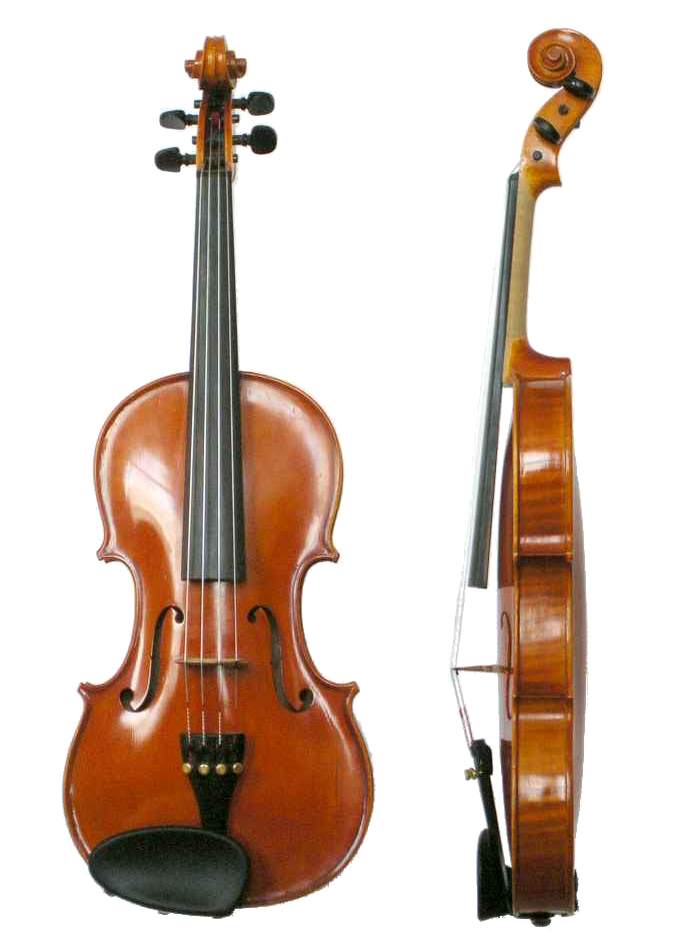
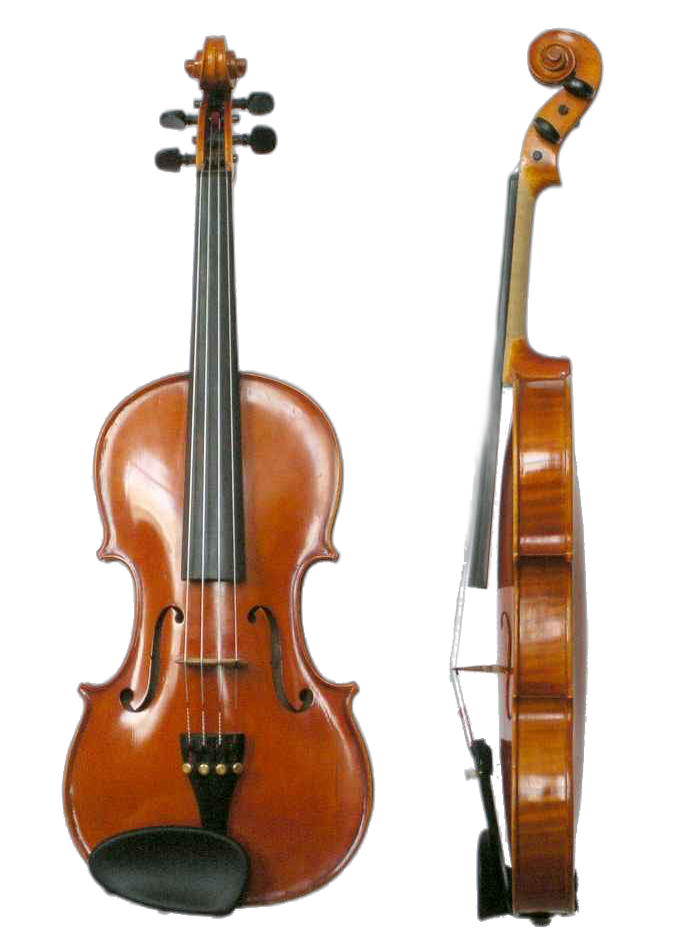
Détourage des photos de fond + WYSIWYG pour la description
Photos
- Backgrounds détourés par rembg (U2-Net) : on garde uniquement
  l'animal/instrument sur fond transparent. Les 4 photos passent
  donc en PNG (chamois/lynx/vautour) et le violon reste en PNG
  détouré aussi
- CSS allégé : plus besoin du grayscale fort, juste un léger
  sepia+saturate pour homogénéiser, opacité montée à 18%
  (sujets bien isolés, ne gênent plus la lecture)

WYSIWYG
- Quill 2.0 chargé conditionnellement via $include_editor
- Markup : <textarea data-wysiwyg> + <div .wysiwyg-editor>, init JS
  partagé dans public/editor.js (init multi-instance, smart load
  HTML/plain-text, sync au submit)
- Sanitization HTML côté serveur (lib/html_sanitize.php,
  DOMDocument + whitelist tags+attrs, force rel/target sur <a>)
- render_description() rétrocompatible : applique nl2br+escape
  si la description est en plain text (anciennes descriptions
  seed avant cette mise à jour)
- Toolbar Quill : headers H2/H3, gras/ital/souligné/barré, listes,
  blockquote, lien, clean
- seed.php : description ré-écrite en HTML (paragraphes + emphases)

diff --git a/public/style.css b/public/style.css
@@ -46,34 +46,34 @@ body::before {
   inset: 0;
   background-color: transparent;
   background-image:
-    url('/public/bg/lynx.jpg'),
-    url('/public/bg/vautour.jpg'),
+    url('/public/bg/lynx.png'),
+    url('/public/bg/vautour.png'),
     url('/public/bg/violon.png'),
-    url('/public/bg/chamois.jpg');
+    url('/public/bg/chamois.png');
   background-position:
-    left   2vh,
-    right  2vh,
-    1vw   bottom,
+    left 3vh,
+    right 4vh,
+    2vw bottom,
     right bottom;
   background-repeat: no-repeat;
   background-size:
+    32vw auto,
     36vw auto,
-    42vw auto,
-    18vw auto,
-    38vw auto;
-  filter: grayscale(0.85) contrast(0.9) sepia(0.05);
-  opacity: 0.12;
+    16vw auto,
+    32vw auto;
+  filter: sepia(0.1) saturate(0.85);
+  opacity: 0.18;
   pointer-events: none;
   z-index: 0;
 }
 @media (max-width: 700px) {
   body::before {
     background-image:
-      url('/public/bg/lynx.jpg'),
+      url('/public/bg/lynx.png'),
       url('/public/bg/violon.png');
     background-position: left top, right bottom;
-    background-size: 70vw auto, 40vw auto;
-    opacity: 0.10;
+    background-size: 60vw auto, 35vw auto;
+    opacity: 0.15;
   }
 }
 body > * { position: relative; z-index: 1; }
@@ -198,7 +198,32 @@ details.card > summary::before {
 }
 details.card[open] > summary::before { transform: rotate(90deg); }
 details.card[open] > summary { margin-bottom: 0.85rem; }
-.card.description { white-space: pre-wrap; color: var(--fg-soft); }
+.card.description { color: var(--fg-soft); }
+.card.description p:first-child { margin-top: 0; }
+.card.description p:last-child  { margin-bottom: 0; }
+.card.description h2, .card.description h3, .card.description h4 { margin: 1rem 0 0.5rem; border: none; }
+.card.description ul, .card.description ol { padding-left: 1.5rem; }
+.card.description blockquote { margin: 0.5rem 0; padding-left: 0.85rem; border-left: 3px solid var(--border-strong); color: var(--muted); }
+
+/* Quill WYSIWYG */
+.wysiwyg-editor {
+  background: #fff;
+  border: 1px solid var(--border-strong);
+  border-top: none;
+  border-radius: 0 0 var(--radius-sm) var(--radius-sm);
+  min-height: 160px;
+  font: inherit;
+  margin-top: 0;
+}
+.ql-toolbar.ql-snow {
+  border: 1px solid var(--border-strong);
+  border-bottom: none;
+  border-radius: var(--radius-sm) var(--radius-sm) 0 0;
+  background: #f8fafc;
+}
+.ql-container.ql-snow { border: none; font: inherit; font-size: 15px; }
+.ql-editor { min-height: 130px; }
+.ql-editor.ql-blank::before { color: var(--muted); font-style: normal; }
 
 .flash {
   padding: 0.65rem 0.9rem;

diff --git a/public/editor.js b/public/editor.js
@@ -1,0 +1,47 @@
+// Active Quill sur chaque .wysiwyg trouvé dans la page.
+// Le markup attendu :
+//   <textarea name="description" data-wysiwyg style="display:none">…HTML initial…</textarea>
+//   <div class="wysiwyg-editor"></div>
+// Le textarea reçoit le HTML du Quill au submit du formulaire parent.
+
+document.addEventListener('DOMContentLoaded', () => {
+  if (typeof Quill === 'undefined') return;
+
+  document.querySelectorAll('textarea[data-wysiwyg]').forEach((textarea) => {
+    const editor = textarea.nextElementSibling;
+    if (!editor || !editor.classList.contains('wysiwyg-editor')) return;
+
+    const quill = new Quill(editor, {
+      theme: 'snow',
+      placeholder: textarea.getAttribute('data-placeholder') || '',
+      modules: {
+        toolbar: [
+          [{ header: [2, 3, false] }],
+          ['bold', 'italic', 'underline', 'strike'],
+          [{ list: 'ordered' }, { list: 'bullet' }],
+          ['blockquote', 'link'],
+          ['clean'],
+        ],
+      },
+    });
+
+    const initial = textarea.value;
+    if (initial.trim() !== '') {
+      // Si le contenu existant est du HTML (Quill ou autre) on l'injecte tel quel ;
+      // sinon on traite comme du texte brut (préserve les retours à la ligne).
+      if (/<(p|br|h[1-6]|strong|em|ul|ol|li|a|blockquote|pre|code|span|hr)\b/i.test(initial)) {
+        quill.clipboard.dangerouslyPasteHTML(initial);
+      } else {
+        quill.setText(initial);
+      }
+    }
+
+    const form = textarea.closest('form');
+    if (form) {
+      form.addEventListener('submit', () => {
+        const text = quill.getText().trim();
+        textarea.value = text === '' ? '' : quill.root.innerHTML;
+      });
+    }
+  });
+});

diff --git a/lib/html_sanitize.php b/lib/html_sanitize.php
@@ -1,0 +1,92 @@
+<?php
+// Sanitization HTML pour le contenu du WYSIWYG.
+// Whitelist stricte de balises/attributs ; nettoyage via DOMDocument.
+
+function sanitize_html(string $html): string {
+    $html = trim($html);
+    if ($html === '') return '';
+
+    $allowed_tags = [
+        'p','br','strong','em','u','s','span',
+        'ul','ol','li',
+        'a',
+        'h1','h2','h3','h4','h5','h6',
+        'blockquote','pre','code',
+        'hr',
+    ];
+    $allowed_attrs = [
+        'a' => ['href', 'title'],
+    ];
+
+    libxml_use_internal_errors(true);
+    $doc = new DOMDocument('1.0', 'UTF-8');
+    $wrapper = '<?xml encoding="UTF-8"?><div id="__sanitize_root__">' . $html . '</div>';
+    $doc->loadHTML($wrapper, LIBXML_HTML_NOIMPLIED | LIBXML_HTML_NODEFDTD);
+    libxml_clear_errors();
+
+    $xpath = new DOMXPath($doc);
+    $roots = $xpath->query('//div[@id="__sanitize_root__"]');
+    if ($roots->length === 0) return '';
+    $root = $roots->item(0);
+
+    walk_sanitize($root, $allowed_tags, $allowed_attrs, true);
+
+    $out = '';
+    foreach ($root->childNodes as $child) {
+        $out .= $doc->saveHTML($child);
+    }
+    return trim($out);
+}
+
+function walk_sanitize(DOMNode $node, array $allowed_tags, array $allowed_attrs, bool $is_root = false): void {
+    // Traiter d'abord les enfants (copie pour iterer en supprimant)
+    if ($node->hasChildNodes()) {
+        foreach (iterator_to_array($node->childNodes) as $child) {
+            walk_sanitize($child, $allowed_tags, $allowed_attrs, false);
+        }
+    }
+
+    if ($is_root) return;
+    if (!($node instanceof DOMElement)) return;
+
+    $tag = strtolower($node->tagName);
+    if (!in_array($tag, $allowed_tags, true)) {
+        // Unwrap : on remonte les enfants au parent puis on supprime le nœud.
+        while ($node->firstChild) {
+            $node->parentNode->insertBefore($node->firstChild, $node);
+        }
+        $node->parentNode->removeChild($node);
+        return;
+    }
+
+    $allowed = $allowed_attrs[$tag] ?? [];
+    foreach (iterator_to_array($node->attributes) as $attr) {
+        $name = strtolower($attr->name);
+        if (!in_array($name, $allowed, true)) {
+            $node->removeAttribute($attr->name);
+        }
+    }
+
+    if ($tag === 'a' && $node->hasAttribute('href')) {
+        $href = trim($node->getAttribute('href'));
+        if (!preg_match('#^(https?://|mailto:|/|\#)#i', $href)) {
+            $node->removeAttribute('href');
+        } else {
+            $node->setAttribute('href', $href);
+            $node->setAttribute('rel', 'noopener noreferrer');
+            $node->setAttribute('target', '_blank');
+        }
+    }
+}
+
+// Pour l'affichage : détecte si la description contient déjà du HTML
+// (sinon on applique nl2br + escape pour rester compatible avec les
+// anciennes descriptions saisies en plain text).
+function render_description(?string $desc): string {
+    $desc = (string)$desc;
+    if ($desc === '') return '';
+    if (preg_match('/<(p|br|h[1-6]|strong|em|ul|ol|li|a|blockquote|pre|code|hr|span)\b/i', $desc)) {
+        return $desc;
+    }
+    return nl2br(htmlspecialchars($desc, ENT_QUOTES | ENT_SUBSTITUTE, 'UTF-8'));
+}

diff --git a/seed.php b/seed.php
@@ -17,19 +17,14 @@ $pdo = db();
 $uuid = 'b8e3a7f1-2d94-4c6a-9e5b-3f1a2c8d7e60';
 
 $title = "SOS aide Anna & Mathou pour accouchement";
-$description = <<<TXT
-On a besoin de faire une liste d'amis proches qui seraient OK pour nous emmener à la maternité de Romans au moment de l'accouchement.
-
-Si personne de nos proches n'est dispo, on peut appeler le 15, mais on est pas sûr et certain qu'ils seront dispo vite et qu'ils voudront bien nous emmener à Romans (selon la situation ils pourraient nous emmener à Valence, et j'ai vraiment envie d'accoucher à Romans pour plusieurs raisons, c'est important pour moi...). Donc l'idéal serait de se faire emmener par qqun de proche.
-
-Pour rappel le terme est prévu au 21 juin, mais je peux accoucher entre 1 mois avant et 1 semaine après, donc entre le 21 mai et le 26 juin, c'est bébé qui décidera !
-
-L'idée c'est de noter ici TOUTES VOS DISPOS.
-
-Puis, pour éviter que tout le monde se rendre dispo souvent, on essayera de choisir 2 PERSONNES "D'ASTREINTE" PAR CRENEAU, ou sur des petites périodes. Idéalement 1 personne principale qu'on appellera en 1er, et 1 personne suppléante qu'on appellera en 2ème. On vous enverra cette info quand tout le monde aura remplit ce frama.
-
-Un très GRAND MERCI de votre soutien les copains :)
-TXT;
+$description = <<<HTML
+<p>On a besoin de faire une liste d'amis proches qui seraient OK pour nous emmener à la maternité de Romans au moment de l'accouchement.</p>
+<p>Si personne de nos proches n'est dispo, on peut appeler le 15, mais on est pas sûr et certain qu'ils seront dispo vite et qu'ils voudront bien nous emmener à Romans (selon la situation ils pourraient nous emmener à Valence, et j'ai vraiment envie d'accoucher à Romans pour plusieurs raisons, c'est important pour moi...). Donc l'idéal serait de se faire emmener par qqun de proche.</p>
+<p>Pour rappel le terme est prévu au 21 juin, mais je peux accoucher entre 1 mois avant et 1 semaine après, donc entre le 21 mai et le 26 juin, c'est bébé qui décidera !</p>
+<p>L'idée c'est de noter ici <strong>TOUTES VOS DISPOS</strong>.</p>
+<p>Puis, pour éviter que tout le monde se rendre dispo souvent, on essayera de choisir <strong>2 PERSONNES "D'ASTREINTE" PAR CRENEAU</strong>, ou sur des petites périodes. Idéalement 1 personne principale qu'on appellera en 1er, et 1 personne suppléante qu'on appellera en 2ème. On vous enverra cette info quand tout le monde aura remplit ce frama.</p>
+<p>Un très <strong>GRAND MERCI</strong> de votre soutien les copains :)</p>
+HTML;
 
 $existing = $pdo->prepare("SELECT uuid FROM polls WHERE uuid = ?");
 $existing->execute([$uuid]);

diff --git a/index.php b/index.php
@@ -20,6 +20,7 @@ require __DIR__ . '/lib/db.php';
 require __DIR__ . '/lib/helpers.php';
 require __DIR__ . '/lib/auth.php';
 require __DIR__ . '/lib/mailer.php';
+require __DIR__ . '/lib/html_sanitize.php';
 
 session_name('mmidate');
 session_set_cookie_params(['httponly' => true, 'samesite' => 'Lax', 'secure' => !empty($_SERVER['HTTPS'])]);
@@ -156,13 +157,13 @@ function route_admin_logout(): void {
 function route_admin_list(): void {
     require_admin();
     $polls = db()->query("SELECT * FROM polls ORDER BY created_at DESC")->fetchAll();
-    render('admin/list', ['page_title' => 'Sondages', 'polls' => $polls]);
+    render('admin/list', ['page_title' => 'Sondages', 'polls' => $polls, 'include_editor' => true]);
 }
 
 function route_admin_create_poll(): void {
     require_admin();
     $title = trim((string)($_POST['title'] ?? ''));
-    $desc  = trim((string)($_POST['description'] ?? ''));
+    $desc  = sanitize_html((string)($_POST['description'] ?? ''));
     if ($title === '') {
         flash_set('err', 'Titre obligatoire.');
         redirect('/admin');
@@ -185,6 +186,7 @@ function route_admin_poll(string $uuid): void {
         'dates' => $dates,
         'participants' => $participants,
         'votes' => $votes,
+        'include_editor' => true,
     ]);
 }
 
@@ -192,7 +194,7 @@ function route_admin_update_poll(string $uuid): void {
     require_admin();
     $poll = find_poll($uuid);
     $title = trim((string)($_POST['title'] ?? ''));
-    $desc  = trim((string)($_POST['description'] ?? ''));
+    $desc  = sanitize_html((string)($_POST['description'] ?? ''));
     if ($title === '') {
         flash_set('err', 'Titre obligatoire.');
         redirect('/admin/polls/' . $uuid);

diff --git a/templates/admin/poll.php b/templates/admin/poll.php
@@ -15,7 +15,10 @@ $public_url = rtrim($GLOBALS['CONFIG']['app_url'], '/') . '/p/' . $poll['uuid'];
   <form method="post" action="/admin/polls/<?= e($poll['uuid']) ?>">
     <?= csrf_field() ?>
     <label>Titre <input type="text" name="title" value="<?= e($poll['title']) ?>" required></label>
-    <label>Description <textarea name="description" rows="4"><?= e($poll['description']) ?></textarea></label>
+    <label>Description
+      <textarea name="description" data-wysiwyg style="display:none"><?= e($poll['description']) ?></textarea>
+      <div class="wysiwyg-editor"></div>
+    </label>
     <button type="submit">Enregistrer</button>
   </form>
 </details>

diff --git a/templates/layout.php b/templates/layout.php
@@ -9,6 +9,11 @@
 <link rel="preconnect" href="https://fonts.gstatic.com" crossorigin>
 <link rel="stylesheet" href="https://fonts.googleapis.com/css2?family=Fraunces:opsz,wght@9..144,600;9..144,700&family=Inter:wght@400;500;600;700&family=Space+Grotesk:wght@500;700&display=swap">
 <link rel="stylesheet" href="/public/style.css">
+<?php if (!empty($include_editor)): ?>
+  <link rel="stylesheet" href="https://cdn.jsdelivr.net/npm/quill@2.0.3/dist/quill.snow.css">
+  <script src="https://cdn.jsdelivr.net/npm/quill@2.0.3/dist/quill.js" defer></script>
+  <script src="/public/editor.js" defer></script>
+<?php endif; ?>
 </head>
 <body>
 <header class="topbar">

diff --git a/templates/admin/list.php b/templates/admin/list.php
@@ -7,7 +7,8 @@
     <input type="text" name="title" required>
   </label>
   <label>Description
-    <textarea name="description" rows="3"></textarea>
+    <textarea name="description" data-wysiwyg style="display:none"></textarea>
+    <div class="wysiwyg-editor"></div>
   </label>
   <button type="submit">Créer</button>
 </form>

diff --git a/templates/poll/show.php b/templates/poll/show.php
@@ -1,7 +1,7 @@
 <h1><?= e($poll['title']) ?></h1>
 
 <?php if ($poll['description'] !== ''): ?>
-  <div class="card description"><?= nl2br(e($poll['description'])) ?></div>
+  <div class="card description"><?= render_description($poll['description']) ?></div>
 <?php endif; ?>
 
 <div class="card actions">
